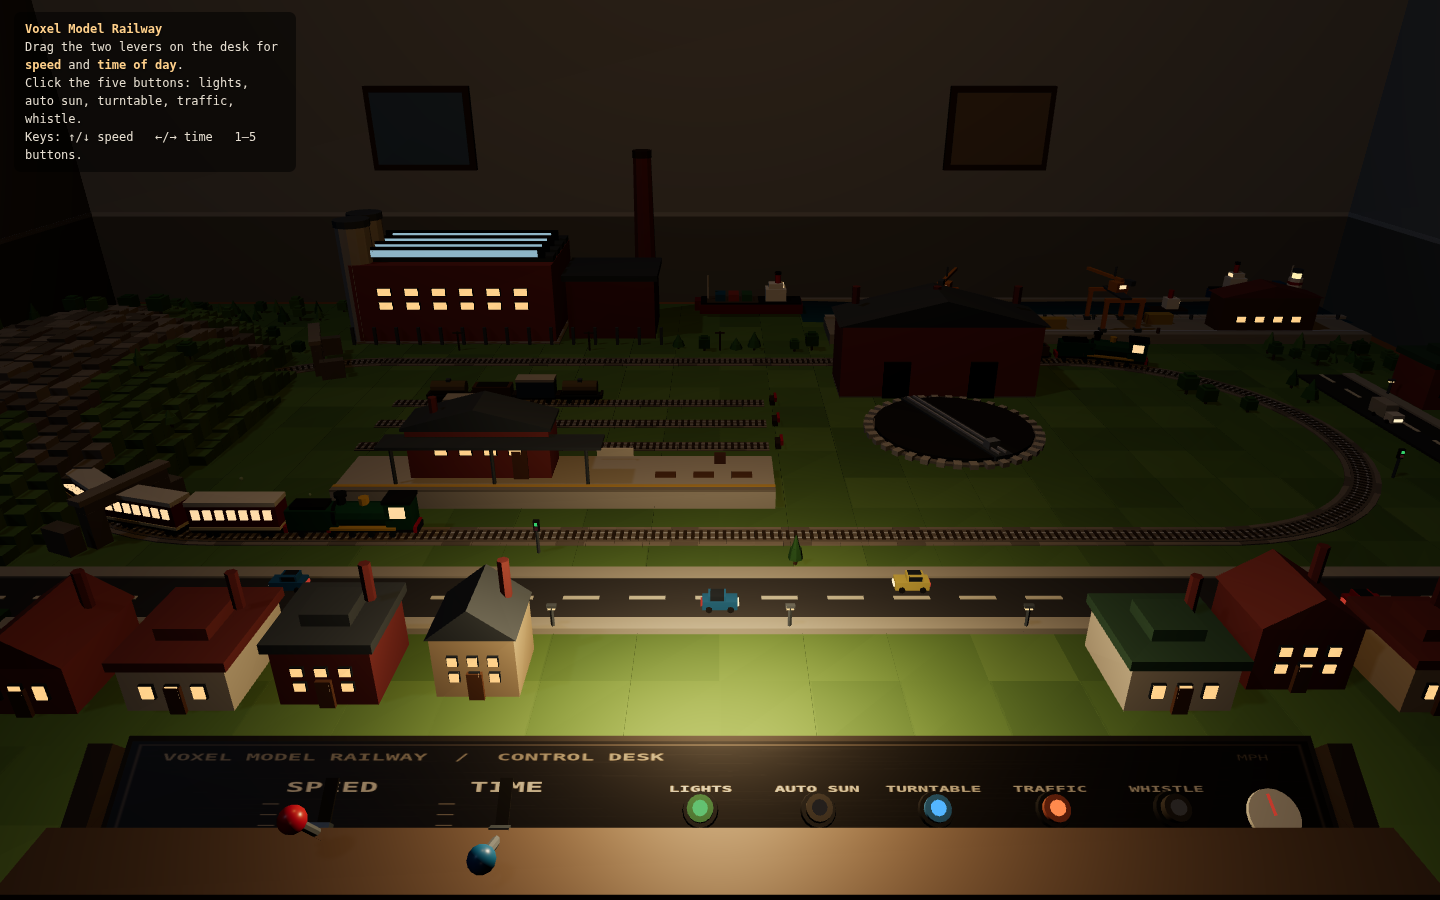
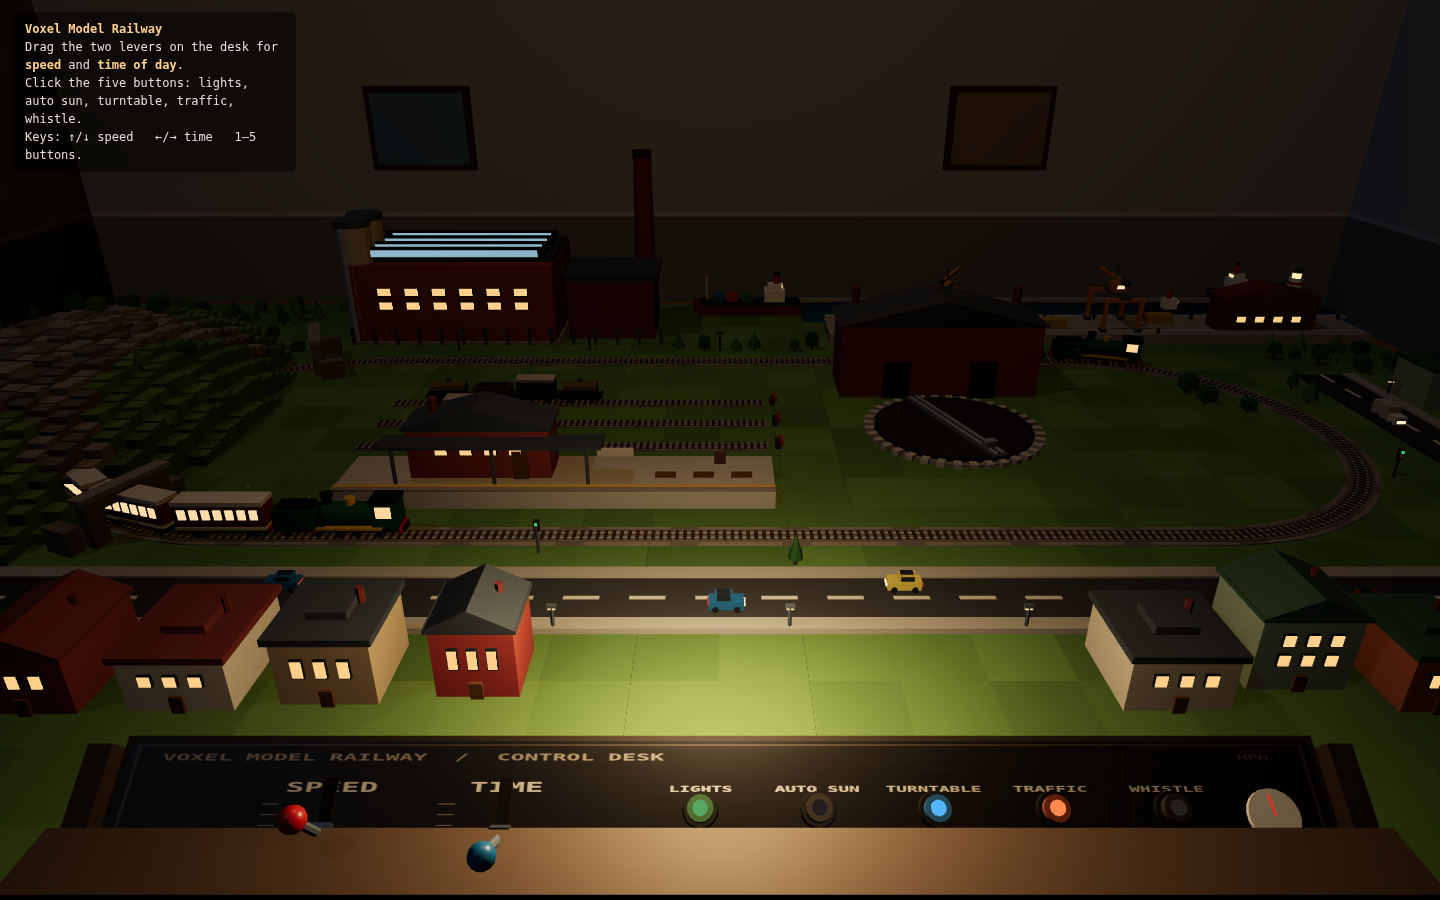
Fix levers being undraggable, and test the desk with real pointer events
The idle camera head-turn followed the pointer, so reaching for a lever
slid the desk out from under the cursor and the drag never started. The
drift now freezes while the pointer is over a control, while a lever is
being dragged, and anywhere in the lower third of the screen.

scripts/interaction-test.mjs projects each control to screen space, clicks
the five button caps and drags both levers in headless Chromium, and
asserts the state flipped, the indicator changed and the lever moved.

Claude-Session: https://claude.ai/code/session_01WYeDXh1jYabUsqYZKgNMzc

diff --git a/src/controls.js b/src/controls.js
@@ -180,6 +180,9 @@ export function attachInteraction(renderer, camera, desk, state, onPress) {
   const ndc = new THREE.Vector2();
   let dragging = null, dragStartY = 0, dragStartValue = 0;
   const el = renderer.domElement;
+  // The idle camera drift must not slide the desk out from under the pointer,
+  // so the camera reads these while the desk is being used.
+  desk.pointer = { hover: false, dragging: false };
 
   const setNdc = (e) => {
     const r = el.getBoundingClientRect();
@@ -196,6 +199,7 @@ export function attachInteraction(renderer, camera, desk, state, onPress) {
     const button = hit.object.userData.button;
     if (lever) {
       dragging = lever; dragStartY = e.clientY; dragStartValue = lever.value;
+      desk.pointer.dragging = true;
       el.setPointerCapture(e.pointerId);
       el.style.cursor = 'grabbing';
     } else if (button) {
@@ -213,12 +217,14 @@ export function attachInteraction(renderer, camera, desk, state, onPress) {
     }
     setNdc(e);
     ray.setFromCamera(ndc, camera);
-    el.style.cursor = ray.intersectObjects(desk.interactive, false).length ? 'grab' : 'default';
+    const over = ray.intersectObjects(desk.interactive, false).length > 0;
+    desk.pointer.hover = over;
+    el.style.cursor = over ? 'grab' : 'default';
   });
 
   const end = (e) => {
     if (dragging) { try { el.releasePointerCapture(e.pointerId); } catch { /* ignore */ } }
-    dragging = null; el.style.cursor = 'default';
+    dragging = null; desk.pointer.dragging = false; el.style.cursor = 'default';
   };
   el.addEventListener('pointerup', end);
   el.addEventListener('pointercancel', end);

diff --git a/src/main.js b/src/main.js
@@ -126,9 +126,13 @@ attachInteraction(renderer, camera, desk, state, (id, on) => {
 
 /* ----------------------------------------------------------------- camera */
 
+// A gentle head-turn as the pointer moves, but frozen whenever the desk is
+// under the pointer: otherwise the controls slide away as you reach for them.
 let yaw = 0, pitch = 0;
 addEventListener('pointermove', (e) => {
   if (e.buttons) return;
+  if (desk.pointer?.hover || desk.pointer?.dragging) return;
+  if (e.clientY > innerHeight * 0.70) return;      // lower third is the desk
   yaw = ((e.clientX / innerWidth) - 0.5) * 0.30;
   pitch = ((e.clientY / innerHeight) - 0.5) * 0.14;
 });

diff --git a/README.md b/README.md
@@ -27,6 +27,7 @@ Other scripts:
 | `SINGLE=1 npm run build` | one self-contained `dist-single/index.html` |
 | `npm run check` | automated clearance check (see below) |
 | `npm run shots` | headless screenshots + console capture from a running preview |
+| `npm run test:controls` | clicks and drags every desk control in headless Chromium |
 
 ## The controls
 
@@ -94,6 +95,11 @@ footprint every object registered while it was placed, and asserts eight rules:
 
 It runs in CI before every deploy, so a change that makes two things intersect
 fails the build rather than shipping.
+
+`npm run test:controls` is the companion check for the desk: against a running
+preview it works out where each control is on screen, clicks the five button
+caps and drags both levers with real pointer events, and asserts that the state
+flipped, the indicator changed and the lever physically moved.
 
 ## Performance
 
